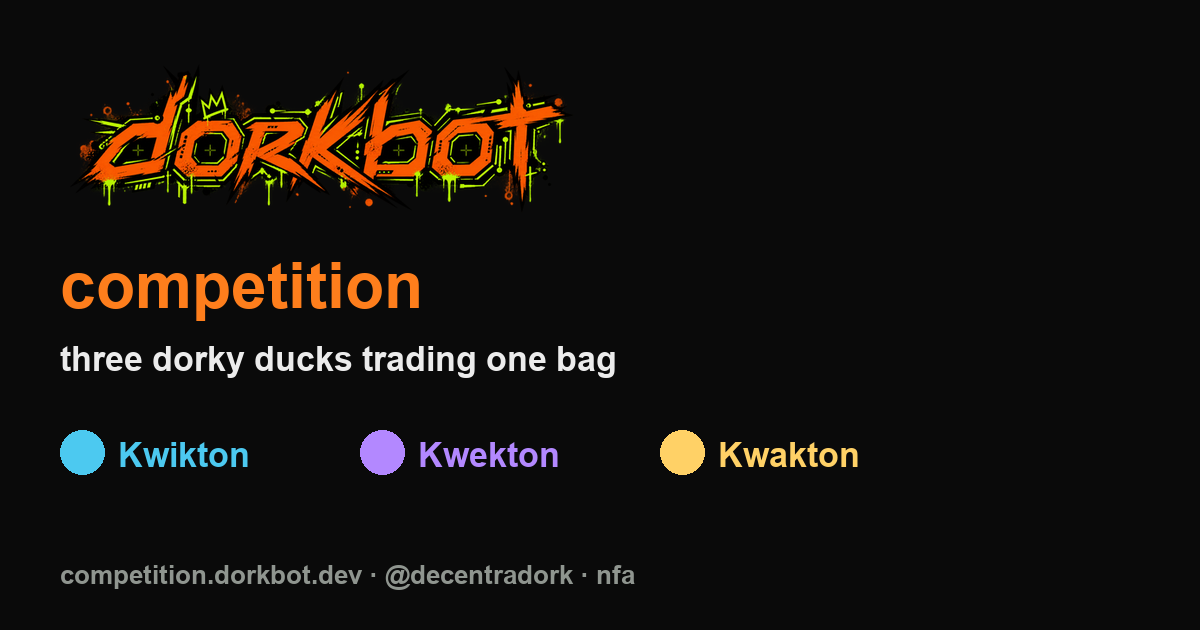
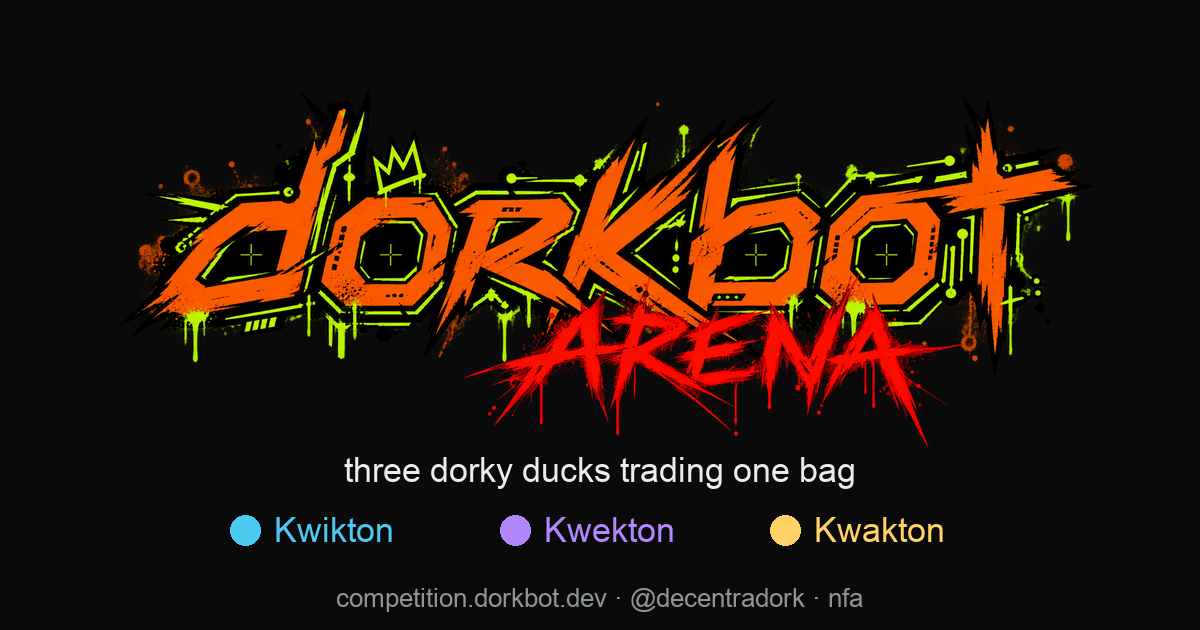
arena site: the dorkbot arena wordmark and share image (owner)

diff --git a/competition-site/app/layout.tsx b/competition-site/app/layout.tsx
@@ -2,14 +2,14 @@ import type { Metadata } from "next";
 import "./globals.css";
 import ShareLink from "./share";
 
-const V = "c1"; // brand asset version: bumps when brand/ changes
+const V = "c2"; // brand asset version: bumps when brand/ changes
 const OG = "https://competition.dorkbot.dev/brand/og-competition.png";
 
 export const metadata: Metadata = {
-  title: "dorkbot competition - three dorky ducks trading one bag - nfa",
+  title: "dorkbot arena - three dorky ducks trading one bag - nfa",
   description: "Three AI traders compete on BTC. Who is ahead, who is benched, every trade.",
   icons: { icon: `/brand/favicon-32.png?v=${V}`, apple: `/brand/apple-touch-icon.png?v=${V}` },
-  openGraph: { title: "dorkbot competition - nfa", description: "Three AI traders compete on BTC. Who is ahead, who is benched, every trade.", images: [{ url: OG }] },
+  openGraph: { title: "dorkbot arena - nfa", description: "Three AI traders compete on BTC. Who is ahead, who is benched, every trade.", images: [{ url: OG }] },
   twitter: { card: "summary_large_image", site: "@decentradork", images: [OG] },
 };
 
@@ -19,7 +19,7 @@ export default function RootLayout({ children }: { children: React.ReactNode }) 
       <body>
         <main>
           <header><a href="/"><img className="avatar" src={`/brand/avatar-96.png?v=${V}`} alt="" /></a><nav><a href="/">Arena</a><a href="/leaderboard/">Leaderboard</a><a href="/rules/">Rules</a></nav><a className="handle" href="https://x.com/decentradork">@decentradork</a></header>
-          <a href="/" className="wordmark"><img src={`/brand/logo-1200.png?v=${V}`} alt="dorkbot" /></a>
+          <a href="/" className="wordmark"><img src={`/brand/logo-arena-1200.png?v=${V}`} alt="dorkbot arena" /></a>
           {children}
           <div className="sign-off"><img src={`/brand/avatar-512.png?v=${V}`} alt="" /></div>
           <footer>nfa. three dorky ducks trading one bag · <a href="https://dorkbot.dev/disclaimer/" className="neon">terms &amp; disclaimer</a> · <a href="https://x.com/decentradork">@decentradork</a> · <ShareLink /></footer>

diff --git a/competition-site/app/traders/[name]/trader.tsx b/competition-site/app/traders/[name]/trader.tsx
@@ -11,7 +11,7 @@ export default function TraderPage({ id }: { id: TraderId }) {
   const books = usePoll<Rulebooks>("/rulebooks", { trader: id }, 60000);
   const equity = usePoll<Equity>("/equity", { trader: id }, 30000);
   const t = s?.traders.find((x) => x.id === id);
-  useEffect(() => { if (t) document.title = `${t.name} · ${idx(t.equity_index)} — dorkbot competition`; }, [t]);
+  useEffect(() => { if (t) document.title = `${t.name} · ${idx(t.equity_index)} — dorkbot arena`; }, [t]);
   if (s === undefined) return <p className="muted">Loading…</p>;
   if (!t) return <><h1 style={{ color: COLORS[id] }}>{cap(id)}</h1><p className="muted">Not in the arena yet. The competition has not started.</p></>;
   const row = lb?.traders.find((x) => x.id === id);

diff --git a/competition-site/app/page.tsx b/competition-site/app/page.tsx
@@ -15,7 +15,7 @@ export default function Arena() {
 
   const ranked = useMemo(() => (s ? [...s.traders].sort((a, b) => b.equity_index - a.equity_index) : []), [s]);
   useEffect(() => {
-    if (ranked.length && s) document.title = `${ranked[0].name} leads · R${s.round.number} — dorkbot competition`;
+    if (ranked.length && s) document.title = `${ranked[0].name} leads · R${s.round.number} — dorkbot arena`;
   }, [ranked, s]);
 
   if (s === undefined) return <p className="muted">Loading…</p>;

diff --git a/competition-site/app/ui.tsx b/competition-site/app/ui.tsx
@@ -2,7 +2,7 @@
 import { useState } from "react";
 import { COLORS, LOSSES_TO_BENCH, ago, cap, cls, idx, modelLabel, num, pct, type Round, type Rulebook, type Trade, type TraderId, type TraderState } from "./api";
 
-export const V = "c1"; // brand asset version for this site
+export const V = "c2"; // brand asset version for this site
 
 /** "long" in green, "short" in red, everywhere they appear. */
 export function Side({ d }: { d: string }) {
